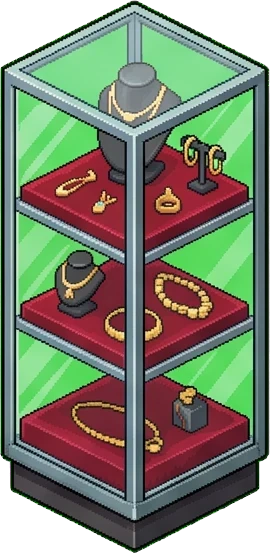
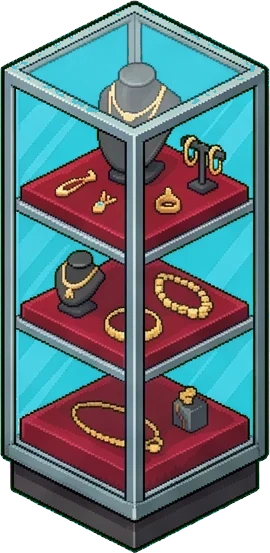
Closet grows in stages of one room; header shows the release number
Every stage is the glass closet painting with less in it, cut by
tools/closet_stages.py: closed walnut doors and a bare herringbone floor to
start, then lights, the shoe and bag wall, a jewelry tower, the island and
rug, glass doors, and LED trim for Super Sleek Modern. Old upgrade ids are
renamed into the stages; the Velvet Ottoman and Shoe Bench are retired
(hidden from the shop), and the Featured Rail of recent orders is gone.
Owner-only Testing link in every room window refunds its upgrades so stages
can be bought again. Jewelry tower glass is cyan, not green-screen green.
The header showed a fixed v0.06; it now shows APPV (v40).

Claude-Session: https://claude.ai/code/session_01SwLP2FeTdBMemzjixU2TiR

Changed region(s): [[0.5037, 0.0, 0.9481, 0.7993], [0.0296, 0.0, 0.4741, 0.7993], [0.9778, 0.123, 1.0, 0.1537]]

diff --git a/quest-board/app/src/27_rooms.js b/quest-board/app/src/27_rooms.js
@@ -37,20 +37,43 @@ LFROOM.bedroom=function(C){var h=C.has;C.has=function(k){return /^bd_(patio|swin
   var dbed=function(x){lfSpr(C,"hmx_dogbed",x,7.8,1.2,1.0,{h:6,ctr:1,H:40,dk:.5});C.plat.push({x0:x,y0:7.8,x1:x+1.2,y1:8.8,z:7,key:x+1.2+8.8+.01})};
   if(h("bd_dbed1")){dbed(2.0);if(h("bd_dbed2"))dbed(4.7)}
   C.dogs=[];if(h("bd_pluto"))C.dogs.push({id:"pluto",bed:[2.6,8.3]});if(h("bd_chop"))C.dogs.push({id:"chopstick",bed:[5.3,8.3]})};
-/* A lit shelf along the cornice of the back wall, above the wardrobes, so it covers none of them. It fits the
-   wall whatever the room's width, and with nothing bought yet it shows empty glass cubbies, not a dark slab. */
-function displayWall(C){var own=SHOP.filter(function(x){return S.owned&&S.owned[x[0]]&&x[6]&&x[6].gar&&!x[6].basic}).slice(-6),U=LF.U,x0=.9,w=Math.max(2,C.W-x0-.9)*U,n=6,cw=w/n,hh=28,
-  s='<rect x="-2" y="-2" width="'+(w+4)+'" height="'+(hh+4)+'" rx="2" fill="#2a1d14" stroke="'+LFOL+'" stroke-width=".8"/>';
-  for(var i=0;i<n;i++){var it=own[i],cx=i*cw;s+='<rect x="'+(cx+2)+'" y="2" width="'+(cw-4)+'" height="'+(hh-4)+'" rx="1.5" fill="'+(it?'#fff3dc':'rgba(255,236,200,.16)')+'" stroke="rgba(255,214,150,.55)" stroke-width=".6"/>';
-    if(it)s+='<image href="'+itemArt(it)+'" x="'+(cx+4)+'" y="4" width="'+(cw-8)+'" height="'+(hh-8)+'" preserveAspectRatio="xMidYMid meet"/>'}
-  s+='<rect x="0" y="'+(hh-2)+'" width="'+w+'" height="2" fill="#ffd9a0" opacity=".85"/>';
-  C.walls.push(lfFaceY(x0,0,(LFWH.closet||200)-32,s))}
 /* the Closet and the Lair are single painted rooms: the art is the room */
 function artRoom(C,k,T,a,b,c,d){var Sp=LFSP4[k];if(!Sp)return;var t=lfP(0,0,0),e=t[0]-(a*T[0]+c*T[1]),f=t[1]-(b*T[0]+d*T[1]);return '<image href="'+lfSp4Url(k,"d")+'" preserveAspectRatio="none" width="'+Sp.w+'" height="'+Sp.h+'" transform="matrix('+[a,b,c,d,e,f].map(function(v){return v.toFixed(5)}).join(",")+')"/>'}
+/* The Closet grows in stages you can see (Cal, 2026-11-05), all one room: the glass closet painting (clx_room) is the
+   finished look, and the earlier stages are cut from it by tools/closet_stages.py:
+     start        clx_st0  closed walnut doors, bare herringbone floor, lights down
+     cl_glow      Wardrobe Lights: the same, lit
+     cl_shoe      clx_st1  the shoe and bag wall opens
+     cl_jewel     a jewelry tower in the front corner (sprite)
+     cl_isl       clx_st2  the marble island and the rug
+     cl_mirror    clx_room the glass doors, lit from inside
+     cl_disp      Super Sleek Modern: LED strips along the plinths and over the doors (a stand-in until a painted version)
+   The ids are the old upgrades', renamed, so saves keep what they paid for. The Velvet Ottoman and Shoe Bench are retired:
+   hidden from the shop, drawn nowhere. The Featured Rail (the shelf of recent Shop orders) is gone. Any stage picture
+   that is missing falls back to the finished painting. */
+function clPaint(C,k,dim){var S0=LFSPR[k];if(!S0)return false;var W=C.W,D=C.D,x0=-D*26-6,w=(W+D)*26+12,h=w*S0.h/S0.w,y0=(W+D)*13+16-h;
+  C.decals.push('<image href="'+S0.u+'" x="'+x0+'" y="'+y0.toFixed(1)+'" width="'+w+'" height="'+h.toFixed(1)+'"'+(dim?' style="filter:brightness(.62) saturate(.8)"':'')+'/>');return {x0:x0,y0:y0,k:w/S0.w}}
+/* cool white LED strips, drawn in the painting's own pixels: along both plinths and over the glass doors */
+function clLed(C,P){var L=function(x){return 446-(x-60)*.565},R=function(x){return 312+(x-305)*.555},TL=function(x){return 250-(x-62)*.58},TR=function(x){return 120+(x-321)*.6},
+  ln=function(x1,y1,x2,y2){return '<path d="M'+x1+' '+y1.toFixed(1)+'L'+x2+' '+y2.toFixed(1)+'"/>'},
+  d=ln(58,L(58)+6,300,L(300)+6)+ln(303,R(303)+6,312,R(312)+6)+ln(414,R(414)+6,548,R(548)+6)+ln(58,TL(58)-4,300,TL(300)-4)+ln(303,TR(303)-4,548,TR(548)-4);
+  /* on the floor layer, so the jewelry tower stands in front; the right plinth's strip stops behind the painted island */
+  C.decals.push('<g pointer-events="none" transform="translate('+P.x0+','+P.y0.toFixed(1)+') scale('+P.k.toFixed(4)+')" style="mix-blend-mode:screen"><g stroke="#bfe6ff" stroke-width="7" opacity=".35" filter="url(#lfneon)" fill="none">'+d+'</g><g stroke="#f2fbff" stroke-width="1.8" fill="none" opacity=".95">'+d+'</g></g>')}
 autoRoom("closet",{name:"Walk-in Closet",lv:1,startLv:3,step:1,wall:"#3a2a20",wain:"#2a1e16",acc:"#ffd27a",fl:"w",size:[[7,7]],H:200,shell:1,door:false,guests:0,group:"Closet",desc:"Your clothes finally have a room of their own. Everything you buy in the Shop lives here.",
- draw:function(C,H){var S0=LFSPR.clx_room;if(!S0)return;var W=C.W,D=C.D,x0=-D*26-6,w=(W+D)*26+12,h=w*S0.h/S0.w,y0=(W+D)*13+16-h,dim=H("cl_glow")?"":' style="filter:brightness(.72) saturate(.85)"';C.decals.push('<image href="'+S0.u+'" x="'+x0+'" y="'+y0.toFixed(1)+'" width="'+w+'" height="'+h.toFixed(1)+'"'+dim+'/>')},
- help:{k:"New room",t:"The Closet is open!",sub:"Your own room for clothes, and it opens the Shop.",pts:[["The Shop is open","Buy clothes from the brands that drop every week."],["Light it up","Turn on the wardrobe lights, then keep upgrading. There may be a secret door."]]},
- items:[["cl_glow","Wardrobe Lights",UP_S,"","",0,0,0,"Every wardrobe lights up from inside.",{light:[3.5,3.5,70,"#ffd9a0",3,.5]}],["cl_ott","Velvet Ottoman",UP_S,"hmx_ottoman","",0,0,0,"Somewhere to tie your shoes.",{art:["hmx_ottoman",4.6,5.2,.9,.9,34,{}]}],["cl_disp","Featured Rail",UP_S,"","",0,0,0,"Your six newest Shop pieces, out on display.",{fx:function(C){displayWall(C)}}],["cl_isl","Island Spotlights",UP_S,"","",0,0,0,"The jewelry drawers start to sparkle.",{light:[3.5,4.2,60,"#fff2d0",2.4,.5]}],["cl_shoe","Shoe Wall Spots",UP_S,"","",0,0,0,"Every pair gets its own light.",{light:[5.2,1,90,"#ffe0b0",2.2,.45]}],PL("cl_jewel","Jewelry Tower",UP_S,"clx_jewel",5.5,1.7,0.7,0.7,0,"Velvet shelves under glass.",{cust:[[5.85,3.1,-1]]}),PL("cl_bench","Shoe Bench",UP_S,"clx_bench",1.3,5.6,1.5,0.7,0,"Sit down, pick a pair.",{cust:[[2.05,7,1]]}),PL("cl_mirror","Three-Way Mirror",UP_M,"clx_mirror",5.6,3.2,0.7,1.4,0,"Every angle, honestly.",{cust:[[5.95,5.3,-1]]}),["cl_lair","???",2500,"","",0,0,0,"A panel at the back of the closet sounds hollow.",{g:"Expansion",opens:"lair",lv:12}]]});
+ req:[["cl_shoe","cl_glow"],["cl_jewel","cl_shoe"],["cl_isl","cl_jewel"],["cl_mirror","cl_isl"],["cl_disp","cl_mirror"]],
+ draw:function(C,H){var k=H("cl_mirror")?"clx_room":H("cl_isl")?"clx_st2":H("cl_shoe")?"clx_st1":"clx_st0",P=clPaint(C,k,!H("cl_glow"))||clPaint(C,"clx_room",!H("cl_glow"));
+  if(H("cl_jewel"))lfSpr(C,"clx_jewel",.35,5.95,.7,.7,{h:40,ctr:1});
+  if(H("cl_disp")&&P)clLed(C,P);
+  C.s("look",2.6,1.2,1,"look",[6,11],{fxwall:1});C.s("look",1.2,3.9,-1,"look",[6,11],{fxwall:1});if(H("cl_shoe"))C.s("look",4.4,1.2,1,"look",[6,11],{fxwall:1})},
+ help:{k:"New room",t:"The Closet is open!",sub:"Your own room for clothes, and it opens the Shop.",pts:[["The Shop is open","Buy clothes from the brands that drop every week."],["Build it up","Lights, a shoe wall, jewelry and an island, then glass doors. There may be a secret door."]]},
+ items:[["cl_glow","Wardrobe Lights",UP_M,"","",0,0,0,"The closet lights up, top to bottom."],
+  ["cl_shoe","Shoe & Bag Wall",UP_S,"","",0,0,0,"One wardrobe opens into lit shelves for every pair and every bag."],
+  ["cl_jewel","Jewelry Tower",UP_S,"","",0,0,0,"Velvet shelves under glass."],
+  ["cl_isl","Center Island",UP_M,"","",0,0,0,"Marble top, jewelry drawers and a soft rug, right in the middle."],
+  ["cl_mirror","Glass Closet",UP_L,"","",0,0,0,"Every wardrobe door turns to glass, lit from inside."],
+  ["cl_disp","Super Sleek Modern",UP_L,"","",0,0,0,"Cool white LED lines along every edge."],
+  ["cl_ott","Velvet Ottoman",UP_S,"","",0,0,0,"Retired.",{retired:1}],["cl_bench","Shoe Bench",UP_S,"","",0,0,0,"Retired.",{retired:1}],
+  ["cl_lair","???",2500,"","",0,0,0,"A panel at the back of the closet sounds hollow.",{g:"Expansion",opens:"lair",lv:12}]]});
 LFRS.closet=1.15;
 var LAIRU={lr_rack:"rack",lr_console:"desk",lr_trophy:"trophy",lr_armory:"arm",lr_suit:"suit",lr_holo:"holo"};
 autoRoom("lair",{name:"Hero's Lair",lv:1,startLv:12,step:1,wall:"#1a2036",wain:"#0f1424",acc:"#58a6ff",fl:"k",size:[[12,11.5]],shell:1,door:false,guests:0,group:"Lair",desc:"A hidden base behind your closet. From here you send people out on missions.",

diff --git a/quest-board/app/src/30_app_b.js b/quest-board/app/src/30_app_b.js
@@ -50,6 +50,7 @@ function roomModal(i){
   lfMigA(r);var TSUP={gm_lux1:[],r_tab1:['r_tab2'],r_stl1:['r_stl2'],r_ctr1:['r_ctr2'],r_booth:['r_booth2'],r_pend:['r_chan'],r_wine:['r_wine2'],bd_bed1:['bd_bed2'],bd_chair0:['bd_chair1','bd_chair2'],bd_chair1:['bd_chair2'],bd_ward1:['bd_ward2'],bd_pc1:['bd_pc2'],bd_win2:['bd_win3']},TCH={au_lux1:1,au_lux2:1,au_lux3:1,au_lux4:1,au_imax:1,au_recline:1,au_rows:1,t_bar:1,l_lux1:1,l_lux2:1,l_lux3:1,l_lux4:1,y_lux1:1,y_lux2:1,y_lux3:1,y_lux4:1,b_lux1:1,b_lux2:1,b_lux3:1,b_lux4:1,lb_lux1:1,lb_lux2:1,lb_lux3:1,lb_lux4:1,t_lux1:1,t_lux2:1,t_lux3:1,t_lux4:1,d_lux1:1,d_lux2:1,d_lux3:1,d_lux4:1,c_lux1:1,c_lux2:1,c_lux3:1,c_lux4:1,sp_lux1:1,sp_lux2:1,sp_lux3:1,sp_lux4:1,gm_lux1:1,gm_lux2:1,gm_lux3:1,gm_lux4:1,gm_lux5:1,r_tab2:1,r_stl2:1,r_ctr2:1,r_booth2:1,r_chan:1,r_wine2:1,bd_bed2:1,bd_chair1:1,bd_chair2:1,bd_ward2:1,bd_pc1:1,bd_pc2:1,bd_win3:1,bd_patio:1,bd_swing:1,bd_pdeco:1,bd_neon:1,bd_fshelf:1};
   Object.assign(TSUP,window.RSSUP||{});Object.assign(TCH,window.RSTCH||{});
   list.forEach(function(a){
+    if(a[3]&&a[3].retired)return;/* retired upgrades stay in saves but are never shown or sold */
     var got=r.a&&r.a[a[0]];if((TSUP[a[0]]||[]).some(function(k){return r.a&&r.a[k]}))return;if(TCH[a[0]]&&ADDREQ[a[0]]&&!(r.a&&r.a[ADDREQ[a[0]]]))return;
     if(got){inst.push('<div class="addon got"><b>'+esc(a[1])+'</b><small>'+esc(a[4])+'</small><span class="chip" style="color:var(--done);border-color:var(--done)">Installed</span></div>');return}
     var e=a[3],pre=ADDREQ[a[0]],price=a[2]?'<i class="coin"></i>&nbsp;'+a[2]:'Claim';if(e.lv&&e.lv>effLvl()+6)return;
@@ -59,6 +60,9 @@ function roomModal(i){
   });
   h=h.replace("@@AV@@",avail.length?"Available upgrades ("+avail.length+")":"All upgrades installed");
   h+=avail.join("")+'</div></details>'+(inst.length?'<details class="acol" data-k="in"'+(LFACOL.in?' open':'')+'><summary>Installed ('+inst.length+')</summary><div class="addons">'+inst.join("")+'</div></details>':'');
+  /* owner-only testing link (hidden from guests like the Shop's Testing row; remove both before release): refunds this
+     room's upgrades so its stages can be bought again one at a time. Upgrades that open another room stay. */
+  if(inst.length)h+='<p class="qs-dev">Testing: <button class="qs-link" data-act="simundo" data-i="'+i+'">Undo this room\'s upgrades</button></p>';
   h+='</div><div class="row"><button class="btn ghost" data-act="mclose">Close</button></div></div>';
   var dp=(DROP&&DROP.i===i)?DROP:null;DROP=null;
   var mm=modal(h);
@@ -786,7 +790,7 @@ function mults(q,o){
 }
 
 var SAVEOK=0,SAVEERR="";function saveLbl(){if(saveMode!=="cloud")return "this device only";if(SAVEERR)return "NOT SAVING ("+SAVEERR+")";if(!SAVEOK)return "cloud save";var d=new Date(SAVEOK);return "saved "+d.getHours()+":"+String(d.getMinutes()).padStart(2,"0")}
-var DOC="player/state", ownerView=false, APPV=39, saveMode="local", newerSeen=false, saveWarned=false;
+var DOC="player/state", ownerView=false, APPV=40, saveMode="local", newerSeen=false, saveWarned=false;
 async function checkInbox(){
   if(!db||!ownerView||!loaded)return;
   try{var sn=await db.doc("inbox/owner").get();if(!sn.exists)return;var it=(sn.data().items)||[],n=0;if(!S.inbox||typeof S.inbox!=="object")S.inbox={};
@@ -1369,6 +1373,7 @@ document.addEventListener("click",function(e){
   if(a==="thdoorlock"){pop("Open the Auditorium to see what is behind these doors");return}
   if(a==="bsgo"){var bm=b.closest(".modal");if(bm)bm.remove();view="shop";shopTab=b.dataset.b;render();window.scrollTo(0,0);return}
   if(a==="simcoin"){S.coins+=10000;render();persist();pop("Test coins added");return}
+  if(a==="simundo"){var ui=+b.dataset.i,ur=bslot(ui),back=0,n=0;if(!ur)return;(ADDONS[ur.t]||[]).forEach(function(u){if(ur.a[u[0]]&&!(u[3]&&u[3].opens)){delete ur.a[u[0]];back+=u[2]||0;n++}});S.coins+=back;persist();render();roomModal(ui);pop("Undid "+n+" upgrades, refunded "+back+" coins");return}
   if(a==="simlvl"){var sl0=effLvl();var g0=gated();if(g0!==null)S.gates.push(g0);S.xp=Math.max(S.xp,cum(sl0+1));render();persist();levelUp(effLvl(),null,sl0);return}
   if(a==="buy")buy(b.dataset.id,e);
   if(/^cc/.test(a)){ccAct(a,b,e);return}

diff --git a/quest-board/app/src/10_app_a.js b/quest-board/app/src/10_app_a.js
@@ -725,7 +725,7 @@ function stockCard(n,i){
 }
 function stripHtml(){
   var rk=RANKS[rankIdx()], t=eqItem("title");
-  return '<div class="strip"><div class="who"><button class="avbtn" data-act="char" aria-label="Your character">'+'<span class="calfull">'+calImg(lookOf(),"idle",86,"")+'</span>'+'</button><div><span class="brand">'+(ART.logo_board?'<img class="blogo" src="'+ART.logo_board+'" alt="">':'<i></i>')+esc((S.char&&S.char.name)||"Quest Board")+'</span>'+'<div class="ttl">'+(t?'<span class="ttlx '+t[0]+'">'+esc(ifTitle(t))+'</span> &middot; ':'')+'v0.06 &middot; <span id="savest">'+saveLbl()+'</span></div></div></div><span class="right"><span class="coinpill" aria-label="'+S.coins+' coins"><i class="coin"></i>'+S.coins+'</span><span class="rankpill">'+(ART["rank_"+rk.l]?'<img class="rkimg" src="'+ART["rank_"+rk.l]+'" alt="Rank '+rk.l+'">':'<b>'+rk.l+'</b>')+''+esc(tierName(S.gates.length))+'</span></span></div>';
+  return '<div class="strip"><div class="who"><button class="avbtn" data-act="char" aria-label="Your character">'+'<span class="calfull">'+calImg(lookOf(),"idle",86,"")+'</span>'+'</button><div><span class="brand">'+(ART.logo_board?'<img class="blogo" src="'+ART.logo_board+'" alt="">':'<i></i>')+esc((S.char&&S.char.name)||"Quest Board")+'</span>'+'<div class="ttl">'+(t?'<span class="ttlx '+t[0]+'">'+esc(ifTitle(t))+'</span> &middot; ':'')+'v'+APPV+' &middot; <span id="savest">'+saveLbl()+'</span></div></div></div><span class="right"><span class="coinpill" aria-label="'+S.coins+' coins"><i class="coin"></i>'+S.coins+'</span><span class="rankpill">'+(ART["rank_"+rk.l]?'<img class="rkimg" src="'+ART["rank_"+rk.l]+'" alt="Rank '+rk.l+'">':'<b>'+rk.l+'</b>')+''+esc(tierName(S.gates.length))+'</span></span></div>';
 }
 function nxLvl(){var lv=effLvl(),m=99;AREAS.forEach(function(a){if(lv<a[2]&&a[2]<m)m=a[2]});return m}
 function navHtml(){

diff --git a/quest-board/tools/closet_stages.py b/quest-board/tools/closet_stages.py
@@ -1,0 +1,234 @@
+"""Make the Closet's earlier stages from its finished painting (art/app/clx_room.webp).
+
+  closet_stages.py [--check out.png]
+
+Cal wants every stage to be the same room as the glass closet, only less finished. No new art can be made in a cloud
+session, so the stages are cut from the painting itself:
+
+  clx_st0  closed walnut doors over every glass pane and over the open shoe wall, bare floor (no island, no rug)
+  clx_st1  as st0, with the shoe and bag wall open
+  clx_st2  as st1, with the island and rug back
+
+The doors take their wood from the upper cabinets directly above each pane (the grain runs straight down, so each
+column of the door repeats that column's wood), keeping the black frames and handles. The bare floor is the floor's
+own light, filled in smoothly from the boundary, plus plank texture copied from clean floor on either side.
+
+These are stand-ins. When Cal is next generating, an image edit of clx_room.webp per stage ("same room, same camera,
+remove the island and the rug", and so on) can replace each file with no code change.
+"""
+import sys
+
+import numpy as np
+from PIL import Image, ImageDraw
+from scipy import ndimage as ndi
+
+SRC = "art/app/clx_room.webp"
+OUT = "art/app/%s.webp"
+
+# The two walls in painting pixels: top and bottom of the glass band, and the frames between doors.
+TL = lambda x: 250 - (x - 62) * 0.58
+BL = lambda x: 446 - (x - 60) * 0.565
+TR = lambda x: 120 + (x - 321) * 0.6
+BR = lambda x: 312 + (x - 305) * 0.555
+PANES_L = [(58, 88), (100, 132), (141, 174), (183, 216), (225, 255), (266, 299)]
+PANES_R = [(307, 340), (351, 381), (473, 506), (517, 548)]
+SHOE = (389, 466)
+
+
+def band(x):
+    return (TL(x), BL(x)) if x < 302 else (TR(x), BR(x))
+
+
+def wood_doors(im, panes, shoe):
+    """Cover glass panes (and the shoe wall) with the wood of the cabinet above each column."""
+    a = im.copy()
+    H = a.shape[0]
+    cols = [x for p in panes for x in range(p[0], p[1] + 1)]
+    if shoe:
+        cols += list(range(shoe[0], shoe[1] + 1))
+    for x in cols:
+        t, b = band(x)
+        t0, b0 = int(round(t)) + 2, int(round(b)) - 1
+        if shoe and shoe[0] <= x <= shoe[1]:
+            b0 += 8  # the open shelf runs a little lower than the doors beside it
+        # wood source: the upper cabinet face above this column, clear of its top and bottom trim
+        s1, s0 = int(t) - 8, int(t) - 52
+        win = a[max(0, s0):s1, x].copy()
+        if len(win) < 10:
+            continue
+        # keep the longest run of rows that are plain wood: no trim line or seam between two upper cabinets
+        lum = win.mean(-1)
+        ok = np.abs(lum - np.median(lum)) < 16
+        best, cur, start = (0, 0), 0, 0
+        for r, v in enumerate(ok):
+            cur, start = (cur + 1, start) if v else (0, r + 1)
+            if cur > best[1] - best[0]:
+                best = (start, start + cur)
+        src = win[best[0]:best[1]] if best[1] - best[0] >= 8 else win
+        n = b0 - t0
+        reps = np.resize(src, (n, 3)) if n > 0 else src[:0]
+        # repeat the column's wood down the door, mirrored at each repeat so no seam shows, and shade it gently
+        k = np.arange(n)
+        idx = k % (2 * len(src))
+        idx = np.where(idx < len(src), idx, 2 * len(src) - 1 - idx)
+        col = src[idx]
+        shade = (1.0 - 0.10 * (k / max(1, n)))[:, None]
+        a[t0:b0, x] = np.clip(col * shade, 0, 255)
+    # a seam and a pair of handles down the middle of the shoe wall, like the doors beside it
+    if shoe:
+        mx = (shoe[0] + shoe[1]) // 2
+        for x in range(mx - 1, mx + 2):
+            t, b = band(x)
+            a[int(t) + 2:int(b) + 7, x] = [24, 18, 14]
+        for dx in (-4, 3):
+            t, b = band(mx + dx)
+            y = int((t + b) / 2)
+            a[y - 7:y + 7, mx + dx:mx + dx + 2] = [32, 26, 20]
+    return a
+
+
+def floor_mask(shape):
+    m = Image.new("L", (shape[1], shape[0]), 0)
+    d = ImageDraw.Draw(m)
+    d.ellipse((154, 369, 459, 578), fill=255)  # the rug
+    d.polygon([(201, 396), (328, 326), (410, 366), (410, 458), (288, 530), (201, 482)], fill=255)  # the island
+    return ndi.binary_dilation(np.asarray(m) > 0, iterations=4)
+
+
+def floor_region(shape):
+    """The floor inside the walls (painting pixels), where texture may be copied from."""
+    m = Image.new("L", (shape[1], shape[0]), 0)
+    ImageDraw.Draw(m).polygon([(62, 452), (300, 318), (548, 456), (300, 598)], fill=255)
+    return np.asarray(m) > 0
+
+
+def harmonic_fill(img, hole, iters=3000):
+    """Smooth colour across the hole, from its edge (low frequencies only)."""
+    f = 4
+    small = img[::f, ::f].copy()
+    hs = hole[::f, ::f]
+    for _ in range(iters):
+        avg = (np.roll(small, 1, 0) + np.roll(small, -1, 0) + np.roll(small, 1, 1) + np.roll(small, -1, 1)) / 4
+        small[hs] = avg[hs]
+    up = np.asarray(Image.fromarray(np.clip(small, 0, 255).astype("uint8")).resize((img.shape[1], img.shape[0]), Image.BICUBIC)).astype(float)
+    return ndi.gaussian_filter(up, sigma=(4, 4, 0))
+
+
+# The painted floor is a herringbone laid at 45 degrees to the walls: on screen its boards run straight across and
+# straight up, about 28 x 8 px and 14 x 16 px (the floor is seen at 30 degrees, so depth is squashed by 0.577).
+SQ = 0.577
+PLANK_W, PLANK_N = 14.0, 2  # board width in painting px (before the squash), length in widths
+
+
+def herringbone(X, Y):
+    """Which board each point is on (an id, 1 for the upright ones) and how far it is from the board's edge, in widths."""
+    n = PLANK_N
+    x, y = X / PLANK_W, Y / PLANK_W
+    t1, t2 = np.array([1.0, 1.0]), np.array([n, -n])
+    M = np.linalg.inv(np.array([t1, t2]).T)
+    ab = np.tensordot(M, np.stack([x, y]), 1)
+    best_id = np.full(x.shape, -1, dtype=np.int64)
+    kind = np.zeros(x.shape, dtype=np.int8)
+    edge = np.zeros(x.shape)
+    for di in range(-n - 1, 2):
+        for dj in range(-1, 2):
+            i = np.floor(ab[0]) + di
+            j = np.floor(ab[1]) + dj
+            rx = x - (i * t1[0] + j * t2[0])
+            ry = y - (i * t1[1] + j * t2[1])
+            inH = (rx >= 0) & (rx < n) & (ry >= 0) & (ry < 1)
+            inV = (rx >= n) & (rx < n + 1) & (ry >= 1 - n) & (ry < 1)
+            hit = (inH | inV) & (best_id < 0)
+            if not hit.any():
+                continue
+            pid = ((i * 7919 + j * 104729) * 2 + inV).astype(np.int64)
+            best_id[hit] = pid[hit]
+            kind[hit] = inV[hit]
+            eh = np.minimum(np.minimum(rx, n - rx), np.minimum(ry, 1 - ry) / SQ)
+            ev = np.minimum(np.minimum(rx - n, n + 1 - rx), np.minimum(ry - (1 - n), 1 - ry) / SQ)
+            edge[hit] = np.where(inV, ev, eh)[hit]
+    return best_id, kind, edge
+
+
+def floor_pixels(a, hole, alpha):
+    """The painted floor, column by column: from under the cabinet plinth down to the front edge of the floor slab."""
+    H, W = alpha.shape
+    L = a.mean(-1)
+    m = np.zeros((H, W), bool)
+    tops, bots = np.full(W, -1.0), np.full(W, -1.0)
+    for x in range(30, W - 30):
+        col = np.nonzero(alpha[:, x] > 0)[0]
+        if not len(col):
+            continue
+        y = int(BL(x) if x < 302 else BR(x))
+        while y < H - 1 and L[y, x] < 75:
+            y += 1  # down through the plinth
+        yb = col.max()
+        while yb > y and L[yb, x] < 75:
+            yb -= 1  # up through the slab's edge
+        tops[x], bots[x] = y, yb
+    ok = tops >= 0
+    xs = np.arange(W)[ok]
+    # straight edges, as painted: smooth the per-column scan
+    t = ndi.median_filter(tops[ok], 9)
+    bt = ndi.median_filter(bots[ok], 15)
+    for x, y0, y1 in zip(xs, t, bt):
+        m[int(y0):int(y1) + 1, x] = True
+    return m
+
+
+def bare_floor(im, alpha):
+    a = im.copy()
+    hole = ndi.binary_dilation(floor_mask(a.shape), iterations=3)
+    flo = floor_pixels(a, hole, alpha)
+    hole &= flo
+    good = flo & ~hole
+    # the floor's light: blurred from clean floor only (normalised, so the rug does not bleed in), then carried across
+    g = good.astype(float)
+    num = np.stack([ndi.gaussian_filter(a[..., c] * g, 7) for c in range(3)], -1)
+    den = ndi.gaussian_filter(g, 7)[..., None]
+    light = np.where(den > 0.05, num / np.maximum(den, 1e-6), 0)
+    _, (iy, ix) = ndi.distance_transform_edt(~good, return_indices=True)
+    light = light[iy, ix]
+    low = harmonic_fill(light, hole)
+    low[good] = light[good]
+    # boards over the whole floor, so new and old cannot be told apart: each a little lighter or darker, with grain
+    ys, xs = np.nonzero(flo)
+    pid, kind, edge = herringbone(xs.astype(float), ys / SQ)
+    rng = np.random.default_rng(7)
+    ids, inv = np.unique(pid, return_inverse=True)
+    var = rng.uniform(0.88, 1.10, len(ids))[inv]
+    along = np.where(kind == 1, xs, ys / SQ * 0 + ys).astype(float)
+    grain = 1 + 0.05 * np.sin(along * 1.9 + (pid % 17)) * np.sin(along * 0.37 + (pid % 5))
+    seam = np.where(edge < 0.06, 0.66, np.where(edge < 0.11, 0.88, 1.0))
+    f = var * grain * seam
+    f = f / f.mean()
+    out = a.copy()
+    out[ys, xs] = np.clip(low[ys, xs] * f[:, None], 0, 255)
+    w = ndi.gaussian_filter(flo.astype(float), 0.8)[..., None]
+    return np.clip(out * w + a * (1 - w), 0, 255)
+
+
+def main():
+    src = Image.open(SRC).convert("RGBA")
+    rgb = np.asarray(src)[..., :3].astype(float)
+    alpha = np.asarray(src)[..., 3:]
+    bare = bare_floor(rgb, np.asarray(src)[..., 3])
+    st0 = wood_doors(bare, PANES_L + PANES_R, SHOE)
+    st1 = wood_doors(bare, PANES_L + PANES_R, None)
+    st2 = wood_doors(rgb, PANES_L + PANES_R, None)
+    outs = {"clx_st0": st0, "clx_st1": st1, "clx_st2": st2}
+    for k, v in outs.items():
+        Image.fromarray(np.concatenate([np.clip(v, 0, 255).astype("uint8"), alpha], -1), "RGBA").save(OUT % k, "WEBP", quality=90, method=6)
+        print("wrote", OUT % k)
+    if "--check" in sys.argv:
+        path = sys.argv[sys.argv.index("--check") + 1]
+        ims = [Image.open(OUT % k) for k in outs] + [src]
+        sheet = Image.new("RGBA", (src.width * 4, src.height), (40, 40, 50, 255))
+        for i, m in enumerate(ims):
+            sheet.paste(m, (i * src.width, 0), m)
+        sheet.save(path)
+
+
+if __name__ == "__main__":
+    main()
